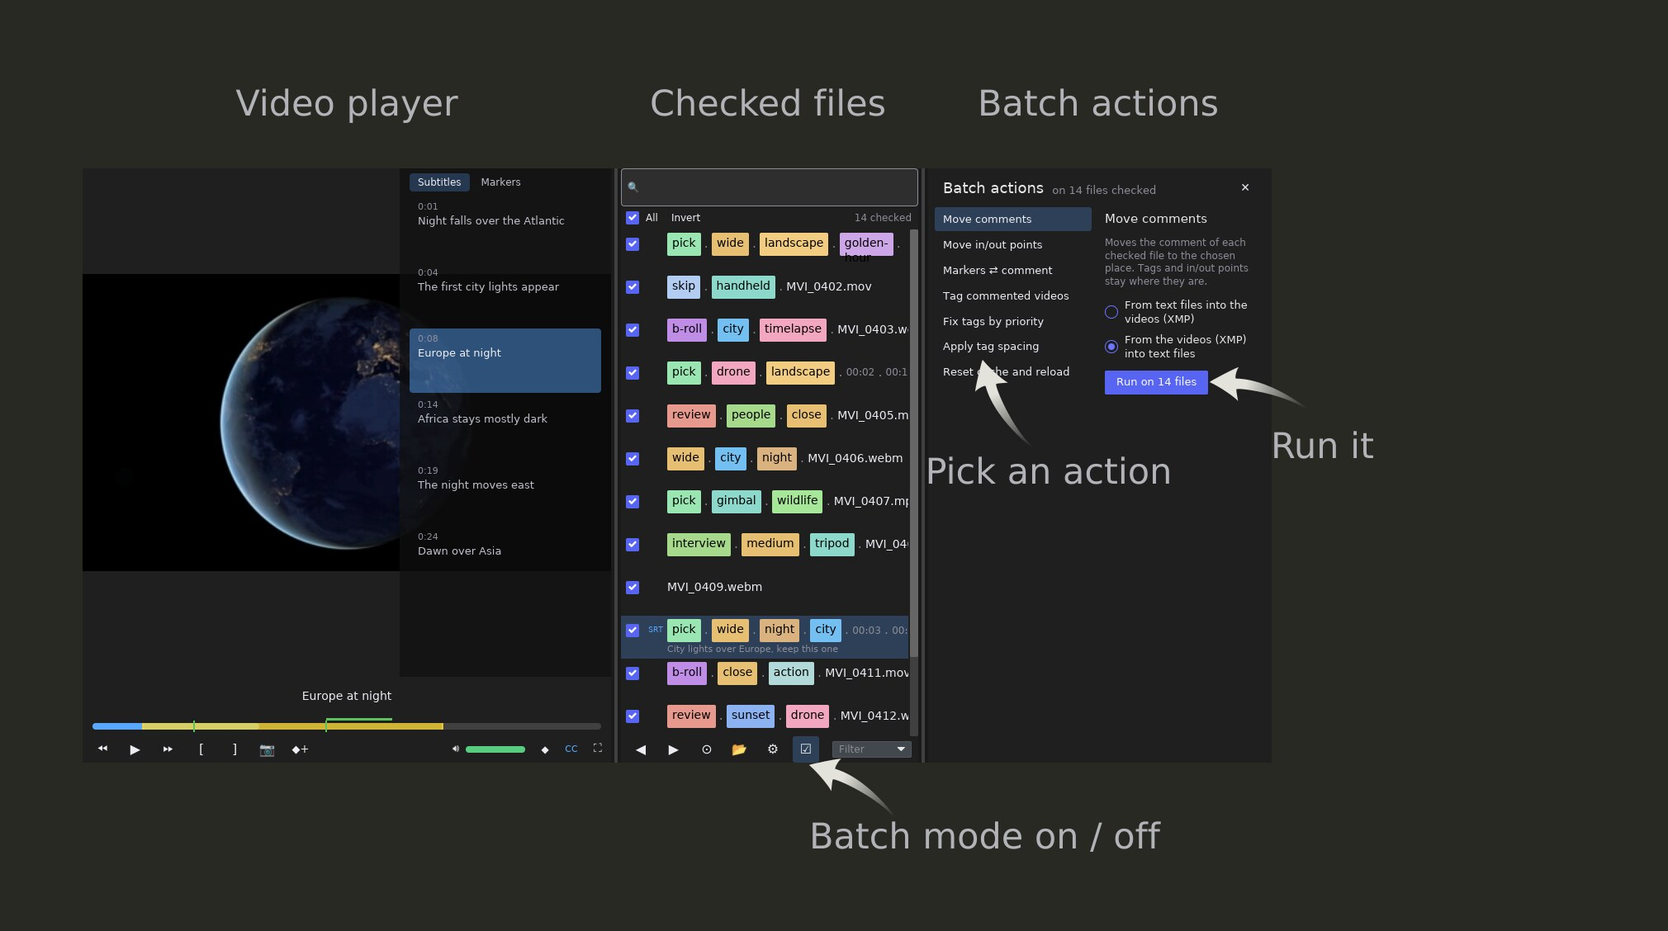
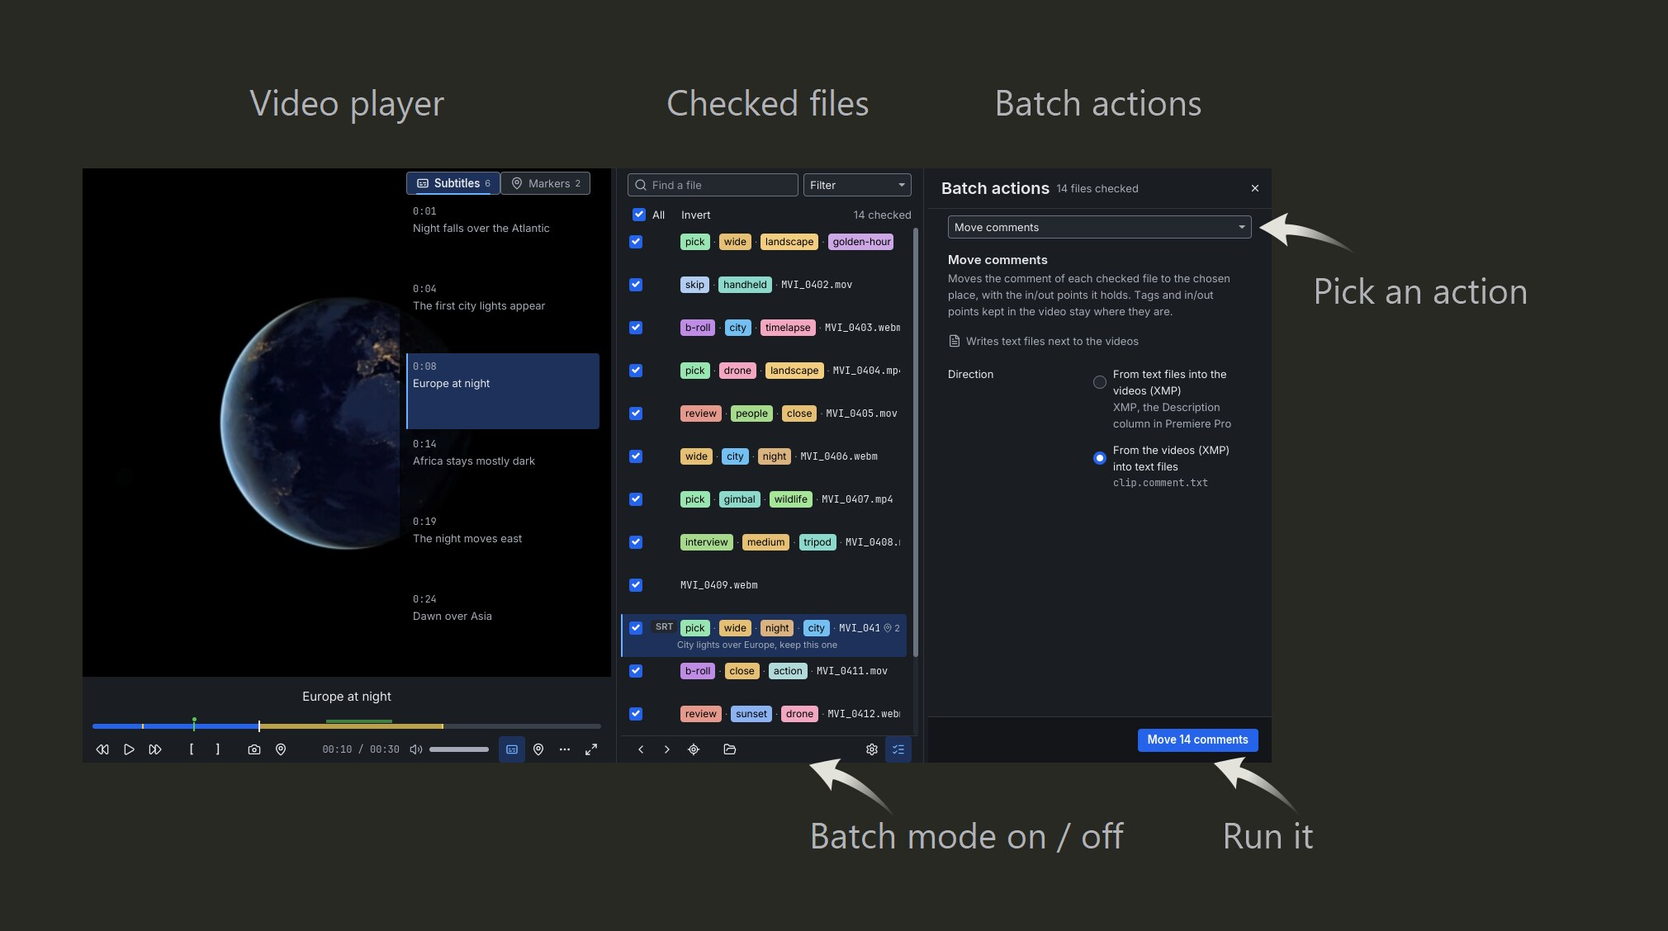
Docs for the design system everywhere: module map, skills, README, release notes
The design doc's module map and delivery match what is built, the ui-dev,
app-guide and Elm skills point at the components, the README names the
buttons instead of their old glyphs, and the README screenshots are
rendered again with their callouts moved to the new controls.

diff --git a/docs/design/design-system.md b/docs/design/design-system.md
@@ -244,6 +244,7 @@ unit"; PUI "4 point increments" for detailed interfaces):
 |---|---|---|
 | `xxs` | 2 | between rows of a list; between a label and its description |
 | `xs` | 4 | between buttons of a toolbar group; between chips; icon to text in a badge |
+| `tight` | 6 | between an icon and its words in a button; inside tooltips and the search bar |
 | `s` | 8 | inside a group: between controls of one row, options of one question, buttons of a bar |
 | `m` | 12 | between the options of a radio group that have descriptions; toolbar group gap |
 | `l` | 16 | padding of button bars; between the label column and the control column |
@@ -1063,6 +1064,8 @@ left to right, with the widths §13.9 folds by:
 | Volume (96) | `volume-2` icon 16 in `text.secondary` (not a button), 8 px, a 72 px slider (§8.8); folded: a 32 px icon button `volume-2` that opens the slider in a popover |
 | Views (96) | `captions` "Subtitle list" (only with subtitles) · `map-pin` "Marker list" with "`Shift`+`F1` / `Shift`+`F3` jump between markers" on its second line · **More** `ellipsis` (only when something is folded) · `maximize-2`/`minimize-2` "Full screen `F5`" |
 
+- **Rotate** `rotate-ccw` / `rotate-cw` (added after this spec) live in **More**, so More is always
+  shown; they are used rarely and have their keys (`Ctrl`+`Alt`+`←` / `→`).
 - **Latched** (list shown, fullscreen): `state.selected` fill and the icon in `accent.text`
   (§8.1), not only a blue glyph.
 - **Held** (`map-pin` while F2 or the button is held to draw a range): `state.pressed` fill and a
@@ -1424,6 +1427,11 @@ in `text.secondary`:
 | | `rotate-ccw` | Reset cache and reload | |
 | Paid services | `sparkles` | Describe with AI | Anthropic |
 | | `captions` | Generate subtitles | Soniox |
+
+As built there are eleven actions in three groups: *Move between places* (Move comments, Move
+in/out points, Move in/out points out of file names with `brackets`, Markers ⇄ comment), *Fix
+names and videos* (Rotate videos with `rotate-cw`, Tag commented, Fix tags by priority, Apply tag
+spacing, Reset cache and reload), *Paid services* (Describe with AI, Generate subtitles).
 
 - Rows as the Settings navigation (§14): 32 px, the selected one `state.selected` with the bar and
   SemiBold; hover `state.hover`. Icons `text.secondary`, the selected row's `text.primary`; badges
@@ -1967,20 +1975,32 @@ and what the new window needs: the Close button, Esc, `Ctrl`+`Tab`, opening on a
 
 ```
 src/ui/
-  mod.rs        the theme for windows on the system; re-exports
-  tokens.rs     colors, spacing, sizes, radii, text sizes, fonts, durations — consts only
-  icons.rs      the bundled Lucide icons and `icon(name, size, color)`
-  text.rs       text styles: heading(), body(), strong(), secondary(), error(), mono(), tooltip(),
-                and label() (a button's text, which takes the button's color); title() and
-                caption() come with their first user (#58)
-  button.rs     primary(), secondary(), danger(), danger_ghost(); ghost() comes with its first user
-  form.rs       checkbox(), checkbox_with_hint(), radio_option() with description() or
-                example() under it, text_field(), dropdown()
-  layout.rs     window_with_navigation(), sidebar(), scroll(), page(), setting_row(), setting_row_with_info(),
-                aligned(), controls(), indented(), buttons(), nav_item(), update_dot(),
-                button_bar(), vertical_line(), notice(), inline_status(), info(), with_tooltip()
-  style.rs      the style functions behind them
-  legacy.rs     today's src/theme.rs, moved: the styles of views not yet on the system
+  mod.rs        re-exports; theme.rs: the theme of every window, a palette from the tokens
+  tokens/       consts only, by kind: color.rs (chrome), content.rs (video, tags, markers),
+                space.rs, size.rs (controls, lines, icons, radii), region.rs (windows, columns,
+                bars, §13.9), typography.rs (sizes, lines, fonts); durations in mod.rs
+  palette.rs    TagPalette (a tag's chip color) and marker_color (a marker's Premiere color)
+  icons.rs      the bundled Lucide icons (one `icons!` list), icon(), spinner()
+  text.rs       heading(), title(), body(), strong(), secondary(), error(), mono(), caption(),
+                caption_strong(), chip_mini(), subtitle(), video_caption(), tooltip(), label()
+  button.rs     primary(), secondary(), ghost(), danger(), danger_ghost(), link(), with_icon()
+  icon_button.rs  IconButton: toolbar 32 / small 24 / control 28, latched, held, overlay, dot,
+                on_hold, tip
+  tooltip.rs    Tip (name, keys as key caps, detail), tip(), tip_text()
+  badge.rs      badge(BadgeKind), key_cap(), timecode()
+  form.rs       checkbox(), checkbox_with_hint(), radio_option() with description() or example(),
+                text_field(), invalid_text_field(), search_field(), dropdown()
+  list.rs       hoverable(), selection_bar(), row_item(): the one hover and selected look
+  scroll.rs     vertical(), vertical_with_id(): scroll areas that keep the gutter
+  segmented.rs  segmented() of Segment
+  menu.rs       the popup menu of commands (the video pane's More)
+  empty.rs      pane(), pane_in(), small(): empty states
+  layout.rs     window_with_navigation(), sidebar(), page(), setting_row(), setting_row_with_info(),
+                aligned(), controls(), indented(), buttons(), nav_item(), nav_item_with(),
+                update_dot(), button_bar(), horizontal_line(), vertical_line(), notice(),
+                inline_status(), info()
+  style/        the style functions behind them: button.rs (ButtonKind), form.rs, surface.rs,
+                scroll.rs
 ```
 
 - **`ui` vs `widgets`:** `ui` holds tokens, styles and stateless constructors of standard controls;
@@ -1994,9 +2014,9 @@ src/ui/
 - **Fonts** (`assets/fonts/`, with their licences) are loaded once on the daemon with `.font(bytes)`.
   They are not the default font: `ui` components set `FONT` / `FONT_STRONG` / `FONT_MONO` and their
   sizes explicitly, so the main window keeps its system font and 16-px default until #59 moves it.
-- `src/theme.rs` moves to `src/ui/legacy.rs` with its values unchanged and stays reachable as
-  `crate::theme`, so the views not yet on the system build as before; #58 and #59 empty it and #59
-  deletes it. The tag palette (`src/tag_colors.rs`) moves into `ui` with #53 or #59.
+- `src/theme.rs` moved to `src/ui/legacy.rs` in #57 and was deleted when #58 and #59 moved the
+  last views; the tag palette (`src/tag_colors.rs`) is `ui::palette` now. Every window uses
+  `ui::theme()`, with Inter as the default font at 13 px.
 
 ### 15.2 The check that keeps the system followed
 
@@ -2040,10 +2060,12 @@ main window does not change in #57 and the README has no Settings screenshot.
   `Ctrl`+`Tab` and opening on a page; demo `--settings [page]`; new and changed strings in English
   and Russian; the Settings section of the README; `version.md`; the `ui-dev` skill and the styling
   section of the Elm skill pointed at this document and `src/ui`.
-- **#58:** the batch views onto the system (removes `batch/**` from the allow-list).
-- **#44:** the other icons. **#53:** monochrome tags and the tag palette into `ui`. **#59:**
-  everything else, the main window theme and fonts; the allow-list becomes empty and `ui::legacy`
-  goes.
+- **#58 and #59 (built together):** the batch views, the video pane, the file list, the tags
+  area and the window frame on the system, with the icons of §7 in their places; the allow-list
+  is empty and `ui::legacy` is gone. Left for later issues: the changes marked **behaviour**,
+  `+N` chips and "…" on long names (iced 0.14 cannot measure or cut text), the drop target of
+  §13.4.4, and *Copy the list* on a batch result.
+- **#44:** the icons not placed yet. **#53:** monochrome tags.
 
 ## 16. Out of scope
 

diff --git a/.cursor/skills/iced-elm-architecture/SKILL.md b/.cursor/skills/iced-elm-architecture/SKILL.md
@@ -542,7 +542,7 @@ No direct `update()` calls across components. One message chain; each layer only
 
 To avoid layout/alignment bugs and disappearing content when adding hover/delete to list rows:
 
-- **One parent container** owns the row background. Use a **single style** on that container (today the old theme's `theme::row_background_style(theme, is_selected)`; new lists use the design system's list row, `docs/design/design-system.md` §8.9, which arrives in `src/ui` with #59). Child cells (checkbox, main content, delete slot, right margin) have **no** background style so they inherit the parent’s look.
+- **One parent container** owns the row background. Use the design system's list row for it: `ui::list::row_item(content, selected, HOVER)` (`docs/design/design-system.md` §8.9). Child cells (checkbox, main content, delete slot, right margin) have **no** background style so they inherit the parent’s look.
 - **Fixed row height**: define a constant (e.g. `TAG_ROW_HEIGHT`) and use it for the parent row and all inner columns so height is consistent and scroll-into-view works.
 - **Layout**: parent = row with: `container(main_cell).height(row_height).width(Length::Fill)`, `container(delete_slot).width(24).height(row_height)`, and a fixed-width right-margin column. Only the parent gets `.style(...)` for background.
 - **Hover**: store `hovered_id: Option<TagId>` in state. Main cell uses `on_enter(Message::TagHovered(Some(id)))` and `on_exit(Message::TagHovered(None))`. Show delete control when `is_selected || hovered_id == Some(id)`. When not shown, use an empty `Space` in the delete slot so layout does not shift.
@@ -552,8 +552,7 @@ To avoid layout/alignment bugs and disappearing content when adding hover/delete
 
 Avoid duplicated inline `container::Style { background: Some(Background::Color(...)), ... }` across views.
 
-- **One place:** frename's design system (`docs/design/design-system.md`) lives in `src/ui/`: tokens, text styles, and components (`ui::button`, `ui::form`, `ui::layout`). Views build from them instead of repeating style structs; a test (`ui::lint`) fails on color and size literals outside `src/ui/`.
-- **Older views** still call `theme::…` helpers (`src/ui/legacy.rs`) until they move onto the system.
+- **One place:** frename's design system (`docs/design/design-system.md`) lives in `src/ui/`: tokens, text styles, style functions (`ui::style`) and components (`ui::button`, `ui::icon_button`, `ui::form`, `ui::list`, `ui::layout`, …). Views build from them instead of repeating style structs; a test (`ui::lint`) fails on color and size literals outside `src/ui/`, with no exceptions.
 - **Widget-specific styling** whose value is dynamic (a tag's color, a marker's color) comes from a function in `src/ui/` that takes the value, not from a literal in the view.
 
 ### Delete + Hover Without Breaking the List
@@ -569,7 +568,5 @@ When adding delete (and hover) to a list (e.g. tag list):
 When a list/grid has selectable items (e.g. tag chips) and you want selection to read clearly and match between the item and the row:
 
 - **Widget owns the “element” selection look.** Put the selection style that belongs to the **item itself** (e.g. border/outline) in the **reusable widget** (e.g. `tag_chip`). The widget takes an `is_selected` (or similar) and draws e.g. a bright accent border. All chip-related selection visuals live in the widget; callers only pass `is_selected`.
-- **Row/cell provides the background.** Use a **single parent container** for the row/cell and apply a theme style (e.g. `tag_row_background_style(theme, is_selected)`). Selected = accent-tinted background; unselected = panel/default. This keeps the row visually tied to the selected item without duplicating logic in the widget.
-- **Same accent family for both.** Use theme constants so the widget outline and row background feel consistent: e.g. solid `ACCENT` for the widget border, and a dedicated constant (e.g. `ACCENT_TAG_ROW`) with the same hue and an opacity that matches the border’s perceived strength. If the row feels “lighter” or “different” than the border, add or tune a constant (e.g. higher alpha) so they read as the same accent.
-- **Dedicated style per selection context.** When you have more than one kind of selection (e.g. file in folder list vs tag in tag list), use **separate** theme helpers (e.g. `selectable_row_style` for files, `tag_row_background_style` for tags) and, if needed, separate constants. That way file selection and tag selection can differ in opacity/strength without affecting each other.
+- **Row/cell provides the background.** Use a **single parent container** for the row/cell with the design system's one selected look (`ui::style::selectable(selected)`, or `ui::list::row_item`, which adds hover and the selection bar). frename has one "selected" look everywhere (`docs/design/design-system.md` §3.2): `SELECTED` fill, plus an `ACCENT_TEXT` bar or ring where several things could look selected. Do not add per-context tints.
 - **Center the widget in the cell.** To avoid the item sitting at the top of the row, center it vertically: on the container that wraps the widget use `.center_y(Length::Fill)`, and on the row use `.align_y(Alignment::Center)`. Use a fixed row height constant so scroll-into-view and layout stay consistent.

diff --git a/.claude/skills/ui-dev/SKILL.md b/.claude/skills/ui-dev/SKILL.md
@@ -64,30 +64,41 @@ The design system is the rule: `docs/design/design-system.md` (tokens, text styl
 windows, patterns, every screen). Its code is `src/ui/`:
 
 ```rust
+use crate::ui::icon_button::IconButton;
+use crate::ui::icons::Icon;
 use crate::ui::layout::{self, NoticeKind};
-use crate::ui::tokens::*;                 // colors, SPACE_*, sizes, radii, fonts
-use crate::ui::{button, form, text};
+use crate::ui::tokens::*;                 // colors, SPACE_*, sizes, regions, radii, fonts
+use crate::ui::tooltip::{Position, Tip};
+use crate::ui::{badge, button, empty, form, list, scroll, style, text};
 
-text::body(fl!("…")); text::secondary(fl!("…")); text::mono(name);
-button::primary(fl!("…")).on_press(msg); button::secondary(fl!("…"));
+text::body(fl!("…")); text::secondary(fl!("…")); text::mono(name).color(TEXT);
+button::primary(fl!("…")).on_press(msg); button::ghost(fl!("…")); button::link(fl!("…"));
+IconButton::new(Icon::Rewind)
+    .tip(Tip::new(fl!("…")).keys(&["F1"]), Position::Top)
+    .on_press(msg);
 form::checkbox(label, on).on_toggle(Msg::Set);
-form::radio_option(label, Some(form::description(hint)), value, selected, Msg::Set);
 layout::setting_row(label, layout::aligned([..]));
 layout::notice(NoticeKind::Info, headline, None, [button::secondary(label).on_press(msg).into()]);
+list::row_item(content, selected, HOVER);      // the one hover + selected look, with its bar
+scroll::vertical_with_id(ID, content);         // keeps the scrollbar gutter
+empty::pane(Icon::Clapperboard, fl!("…"), None, Some(button.into()));
 ```
 
-- A view on the system never writes a color, a size, a padding, a spacing or a radius as a number:
-  `ui::lint` fails the tests if it does. `0` alone is allowed.
-- Views not moved yet still use `crate::theme` (now `src/ui/legacy.rs`) and are listed in
-  `ui::lint::NOT_YET` with the issue that moves them (#58 batch, #59 the rest). The list only
-  shrinks: moving a file means removing its entry.
+- A view never writes a color, a size, a padding, a spacing or a radius as a number: `ui::lint`
+  fails the tests if it does (`0` alone is allowed). Its allow-list `NOT_YET` is empty and stays
+  empty: a new size or color is a token in `src/ui/tokens/` (by kind: color, content, space, size,
+  region, typography), with a doc comment.
+- Every icon is a Lucide SVG in `assets/icons/` with one line in the `icons!` list of
+  `src/ui/icons.rs`; every icon-only button is an `IconButton` with a tooltip.
 - Something the system lacks is added to `docs/design/design-system.md` first, then to `src/ui/`.
-- `ui` holds tokens, styles and stateless constructors of standard controls; `src/widgets/` keeps
-  frename's own stateful or custom-drawn widgets, which take their values from `ui::tokens`.
-- The Settings window uses `ui::theme()`; the main window keeps `iced::Theme::Dark` until #59.
+  A piece two views need is one component, never a copy.
+- `ui` holds tokens, styles (`ui::style`) and stateless constructors of standard controls;
+  `src/widgets/` keeps frename's own stateful or custom-drawn widgets (splitter, tag chip,
+  progress bar), which take their values from `ui::tokens` and `ui::style`.
+- Every window uses `ui::theme()`; Inter at 13 px is the default font.
 
-Tag chip colors: always use `tag_colors::TagColors::color(tag.color_index())`.
-Palette has 16 entries; index wraps modulo 16.
+Tag chip colors: `ui::palette::TagPalette::color(tag.color_index())` (16 colors, the index
+wraps); marker colors: `ui::palette::marker_color`.
 
 ---
 

diff --git a/README.md b/README.md
@@ -34,9 +34,9 @@ Nothing is locked inside frename.
 
 ## The workflow
 
-1. Open a folder with the 📂 button, drag a folder onto the window, or right-click a folder in
+1. Open a folder with the **Open a folder** button (under the file list), drag a folder onto the window, or right-click a folder in
    Explorer and choose "Open in frename" (installed version; on Windows 11 under "Show more
-   options"). To start at one clip, right-click 📂 to pick the file, or drag the file in: its
+   options"). To start at one clip, right-click that button to pick the file, or drag the file in: its
    whole folder opens with that clip selected.
 2. The video starts playing.
 3. Tag what you see: click a tag, or move with the arrow keys and press `Shift+Space`.
@@ -211,11 +211,11 @@ No subtitles yet? Check the videos in batch mode and run **Generate subtitles** 
 
 ![Batch mode](docs/frename-screenshot-batch.jpg)
 
-Click ☑ to check files in the list (All / Invert) and run one action on all of them, with progress
-and Cancel. Each file then shows a green or red check box. Drag a checked file to drag all checked
-files (an unchecked one drags only itself). Esc leaves batch mode, the same as clicking ☑ again.
+Click **Batch actions** (the right end of the bar under the file list) to check files in the list (All / Invert) and run one action on all of them, with progress
+and Cancel. Each file then shows an icon for what happened to it (changed, nothing to change, not done). Drag a checked file to drag all checked
+files (an unchecked one drags only itself). Esc leaves batch mode, the same as clicking **Batch actions** again.
 
-**Select several clips without ☑**: **Ctrl+click** a clip to add it (and the one open before it) to
+**Select several clips without the button**: **Ctrl+click** a clip to add it (and the one open before it) to
 the selection; Ctrl+click a selected clip to drop it. **Shift+click** a clip to select every clip
 between it and the last one you clicked with Ctrl (or the open clip, if you have not Ctrl+clicked
 yet), replacing the selection. Either turns on batch mode with exactly that selection checked, and
@@ -276,7 +276,7 @@ Subtitles. Formats such as mkv, m2ts and avi need [ffmpeg](https://ffmpeg.org) o
 
 ## Settings
 
-The ⚙ button opens Settings. Changes apply right away; **Close** or `Esc` closes it. It has five
+The **Settings** button (under the file list) opens Settings. Changes apply right away; **Close** or `Esc` closes it. It has five
 pages:
 
 - **Interface:** the UI language (follows your system by default, or pick English or Russian;
@@ -293,8 +293,8 @@ pages:
 - **Subtitles:** your Soniox API key (kept the same way), the languages spoken in your footage, and
   whether a subtitle is a short line or a whole sentence.
 - **Updates:** **Check for updates**, then **Update and restart** when a newer version is out.
-  frename also checks once a day by itself (you can turn that off) and puts a dot on ⚙ when an
-  update is ready; ⚙ then opens this page. Nothing is downloaded until you click.
+  frename also checks once a day by itself (you can turn that off) and puts a dot on the Settings button
+  when an update is ready; it then opens this page. Nothing is downloaded until you click.
 
 ![Monochrome tags](docs/frename-screenshot-mono.jpg)
 

diff --git a/version.md b/version.md
@@ -1,8 +1,15 @@
 # NEXT
 ## Added
-- Select several clips without turning on batch mode by hand: `Ctrl+click` a clip to add it (and the one open before it) to the selection, or drop it if it is already selected; `Shift+click` a clip to select every clip between it and the last one you `Ctrl`-clicked. Either turns on batch mode with exactly that selection checked; `Esc` leaves it, same as clicking ☑ again.
+- Select several clips without turning on batch mode by hand: `Ctrl+click` a clip to add it (and the one open before it) to the selection, or drop it if it is already selected; `Shift+click` a clip to select every clip between it and the last one you `Ctrl`-clicked. Either turns on batch mode with exactly that selection checked; `Esc` leaves it, same as clicking the batch button again.
 
 ## Changed
+- The whole main window follows the design system that Settings got in 0.77: one font (Inter, bundled), the same dark surfaces, and icons with tooltips that show their keys instead of emoji buttons.
+  - Video: the controls in groups with a time readout, and a timeline with a visible playhead. The subtitle and marker lists get tabs with counts. The rotate buttons are in the new ⋯ menu, which also takes the buttons that don't fit a narrow player.
+  - File list: file names in a fixed-width font with small tag chips. The open file is marked by a bar. While a batch action runs, a line says the list is locked. After a job, each file shows an icon for what happened to it.
+  - Tags: a checked tag's name is bold; stars are black so they show on every chip color. The columns no longer jump while you search. The order strip says in words what reordering does.
+  - Batch actions: every action has an icon, and the paid ones show who bills them. Each page says what it changes. Run names what it will do ("Move 14 comments"), and when it is off, the reason is shown next to it. A finished job shows its outcome once, the counts as figures, and the files not done as a table.
+  - Empty screens say what is missing and offer the button that fixes it, instead of showing a lone symbol.
+- The main window can no longer be made smaller than 900 × 560.
 - Pasting tags onto a clip no longer wipes its comment.
 - A rename that would give a clip the same name as another one (or its comment, subtitle or transcript) is refused instead of replacing it, with a note that it was not saved.
 - Leaving a clip and moving to the next one before its video has finished loading no longer risks the tag you just set failing to reach the file.

diff --git a/.claude/skills/app-guide/SKILL.md b/.claude/skills/app-guide/SKILL.md
@@ -84,8 +84,7 @@ C:\Work\my\frename\
 | `features/video_controls/` | Progress bar, play/pause |
 | `features/drag_drop/` | OS file drag-drop → `OpenPath(path)` |
 | `widgets/` | 5 reusable widgets (search_bar, tag_chip, splitter, etc.) |
-| `ui/` | The design system (`docs/design/design-system.md`): tokens, fonts, icons, components; `ui/legacy.rs` holds the old `theme.rs` styles of views not moved yet |
-| `tag_colors.rs` | 16-color tag palette |
+| `ui/` | The design system (`docs/design/design-system.md`): tokens, fonts, icons, components, styles; `ui/palette.rs` holds the 16-color tag palette and the marker colors |
 
 ---
 
@@ -127,7 +126,7 @@ Last opened folder + file stored in `folder_history` SQLite table. Restored on s
 
 ## Tag colors
 
-`tag_colors::TagColors::PALETTE` — 16 fixed colors (grays, blues, greens, ambers, etc.).
+`ui::tokens::TAG_PALETTE` (resolved by `ui::palette::TagPalette`) — 16 fixed colors (grays, blues, greens, ambers, etc.).
 `TagColors::color(index: u8) -> Color` — wraps index modulo 16.
 Color is assigned **randomly** when a tag is saved for the first time (`random_color_index()` in core).
 Colors are stored by tag **name** in `tag_color_mapping` table, so they survive renames if done via `save_tag`.
